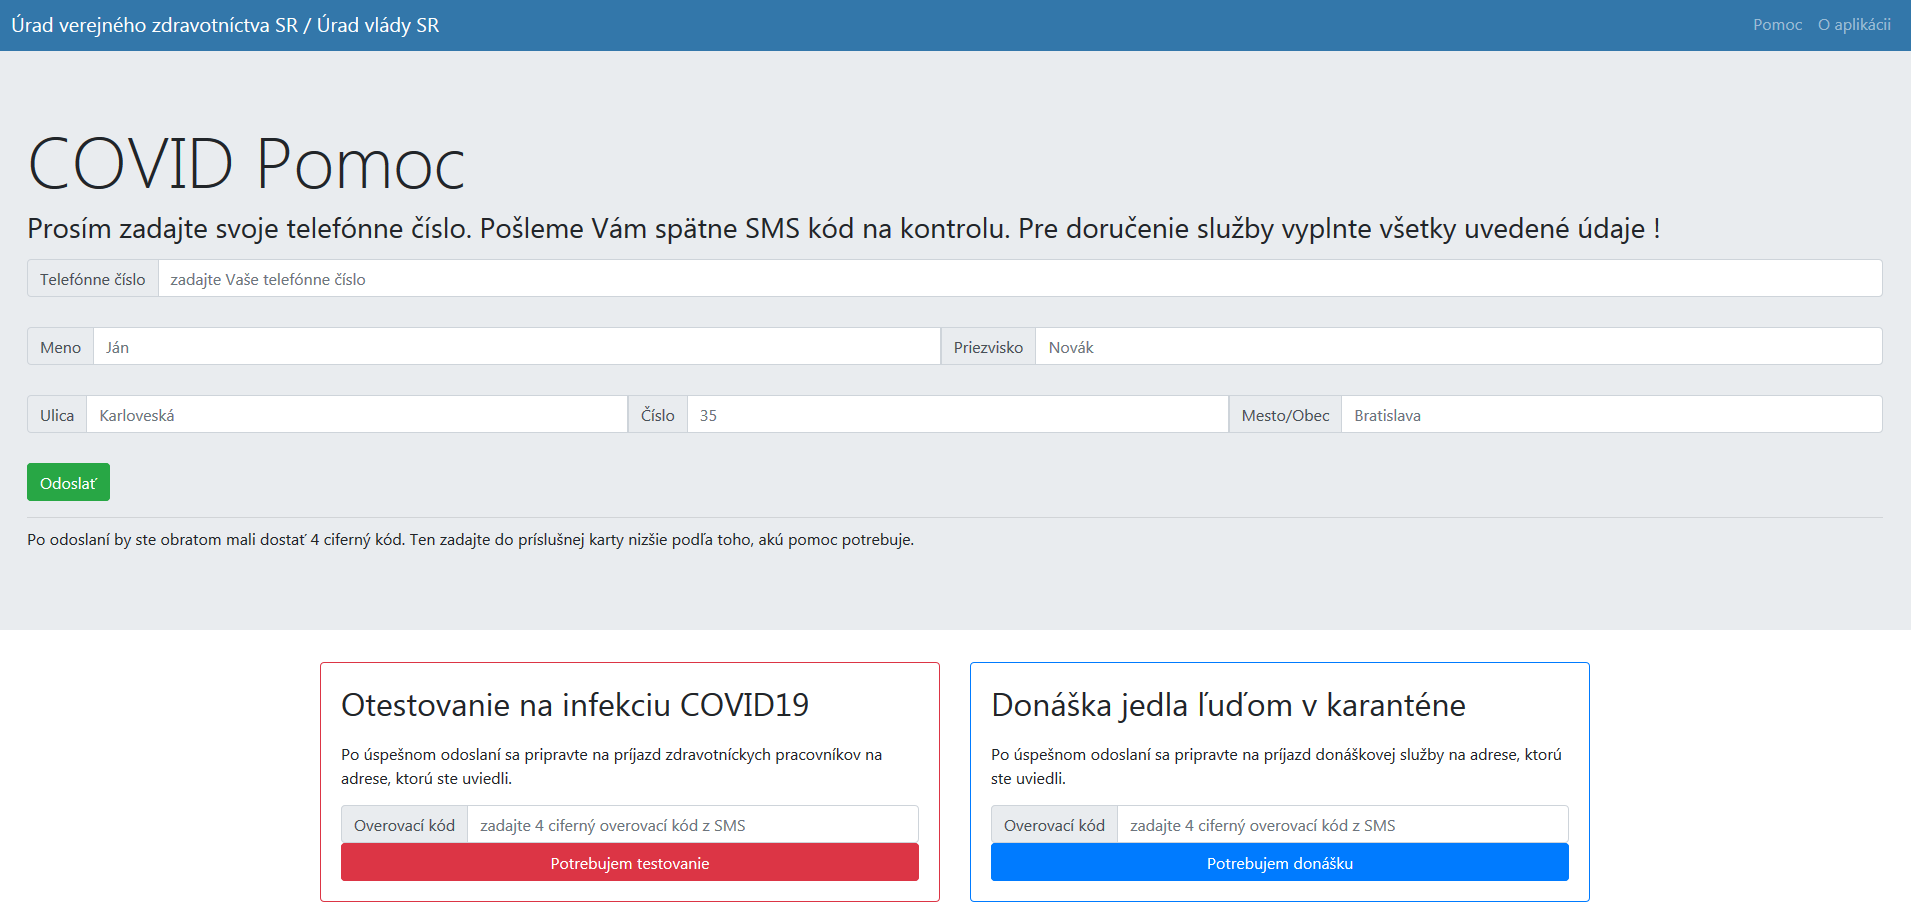
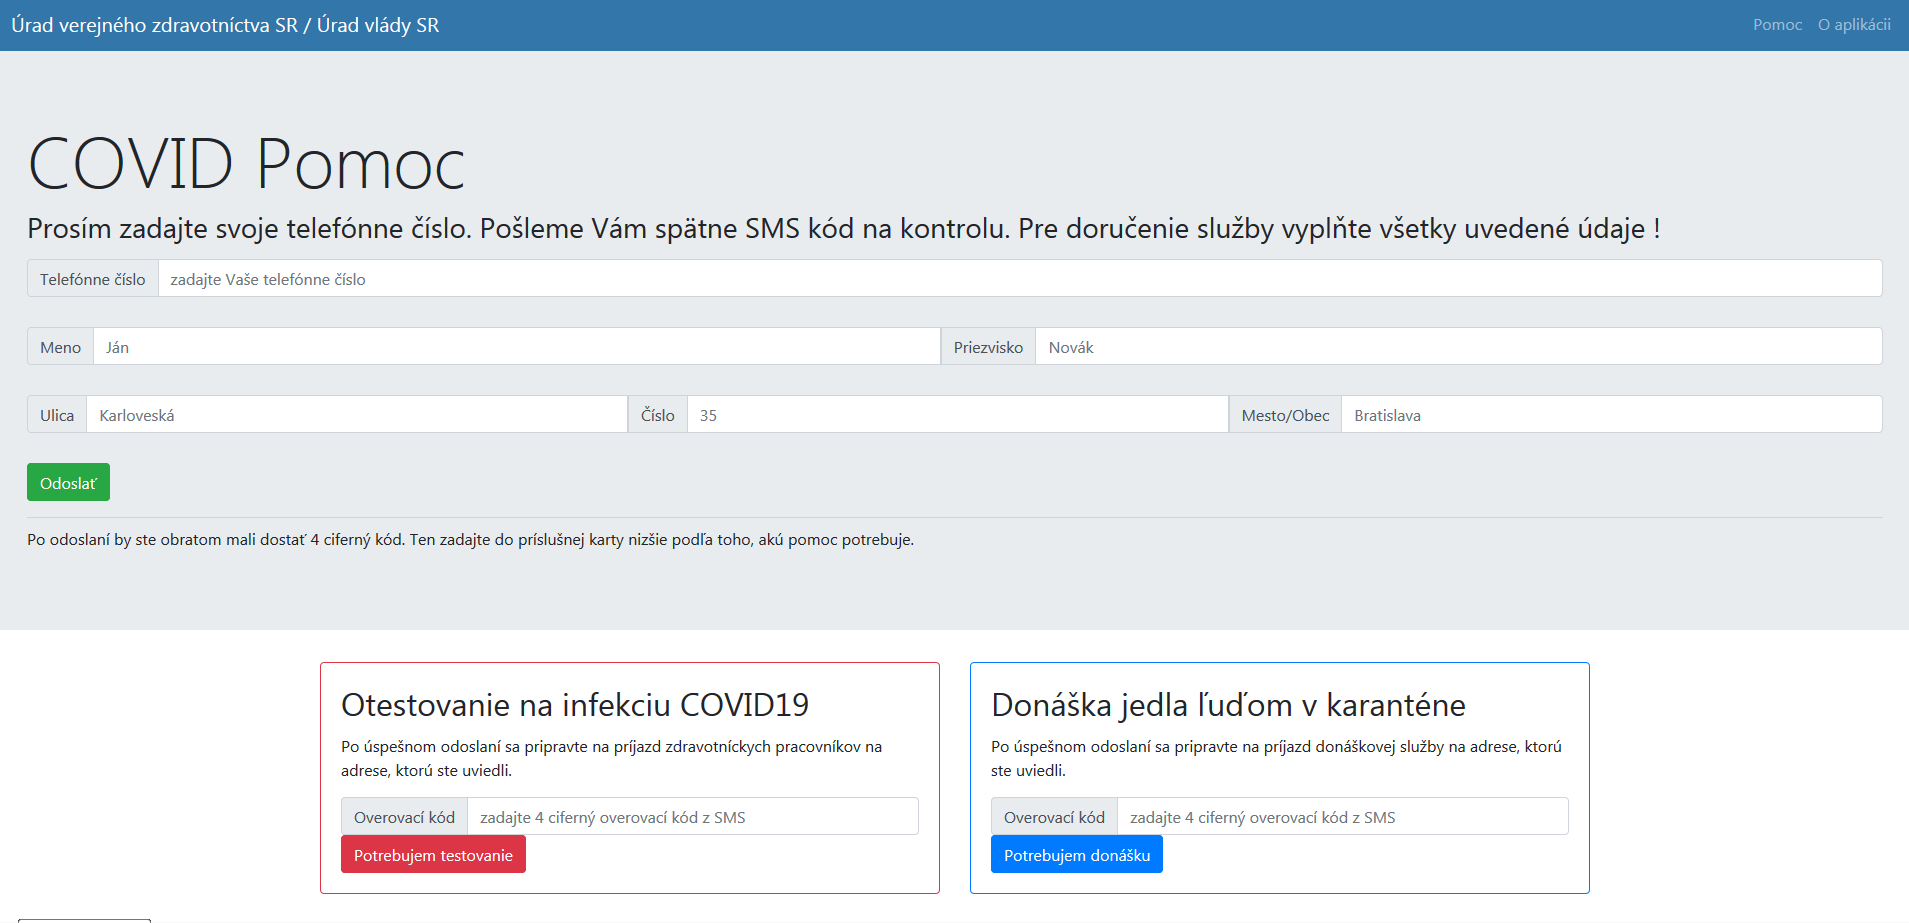
version 0.12

diff --git a/src/components/Result1.js b/src/components/Result1.js
@@ -1,0 +1,71 @@
+import React,{Component} from 'react';
+import {Container,Jumbotron,Progress} from 'reactstrap';
+import {Button, Card, CardImg, CardTitle, CardText, Row, Col,  InputGroup, InputGroupAddon, InputGroupText, Input} from 'reactstrap';
+
+
+export default class Result extends Component{
+
+    constructor(props) {
+        super(props);
+        this.state = {
+          contacts: [],
+          albums:[],
+          patients: []
+        };
+      }
+
+
+    componentDidMount() {
+        fetch('https://bnwcsnniopjzils-atpdbbmsk.adb.uk-london-1.oraclecloudapps.com/ords/books_admin/transactions/list/')
+        .then(res => res.json())
+        .then((data) => {
+          this.setState({ patients: data.items }) 
+        })
+        .catch(console.log)
+      }
+
+    render(){
+        return(
+            <div>
+                <Jumbotron fluid>
+                <Container fluid>
+                <h1 className="display-5">COVID Pomoc</h1>
+                <p className="lead">Stav vybavenia požiadavky</p>
+                <hr className="my-2" />
+                <p><Progress multi>
+                    <Progress animated bar value="10">V systéme</Progress>
+                    <Progress animated bar color="success" value="30" >Na ceste k Vám</Progress>
+                   </Progress>
+                </p>
+                <Card body outline color="danger">
+                    
+                    <CardTitle><h2>Vybrali ste si: Otestovanie na infekciu COVID19</h2></CardTitle>
+                    <CardText>Pripravte na príjazd zdravotníckych pracovníkov na uvedenej adrese. Zelená farba ukazovateľa znamená, že sú na ceste.</CardText>
+                        <InputGroup>
+                        <InputGroupAddon addonType="prepend">
+                        <InputGroupText>Na ceste k Vám</InputGroupText>
+                        </InputGroupAddon>
+                        <Input placeholder="je posádka vozidla BA789AG s doktorom Šrobárom" />
+                        </InputGroup>
+                        <br /><p/>
+                        <InputGroup>
+                        <InputGroupAddon addonType="prepend">
+                        <InputGroupText>Osoba</InputGroupText>
+                        </InputGroupAddon>
+                        <Input placeholder="" />
+                        </InputGroup>
+                        <br /><p/>
+                        <InputGroup>
+                        <InputGroupAddon addonType="prepend">
+                        <InputGroupText>Adresa</InputGroupText>
+                        </InputGroupAddon>
+                        <Input placeholder="" />
+                        </InputGroup>
+                        
+                </Card>
+                </Container>
+                </Jumbotron>
+            </div>
+        );
+    }
+}

diff --git a/src/components/Result2.js b/src/components/Result2.js
@@ -5,6 +5,25 @@ import {Button, Card, CardImg, CardTitle, CardText, Row, Col,  InputGroup, Input
 
 export default class Result extends Component{
 
+    constructor(props) {
+        super(props);
+        this.state = {
+          contacts: [],
+          albums:[],
+          patients: []
+        };
+      }
+
+
+    componentDidMount() {
+        fetch('https://bnwcsnniopjzils-atpdbbmsk.adb.uk-london-1.oraclecloudapps.com/ords/books_admin/transactions/list/')
+        .then(res => res.json())
+        .then((data) => {
+          this.setState({ patients: data.items }) 
+        })
+        .catch(console.log)
+      }
+
     render(){
         return(
             <div>
@@ -15,18 +34,18 @@ export default class Result extends Component{
                 <hr className="my-2" />
                 <p><Progress multi>
                     <Progress animated bar value="10">V systéme</Progress>
-                    <Progress animated bar color="success" value="30" >Na ceste k Vám</Progress>
+                    <Progress animated bar color="success" value="5" >Na ceste k Vám</Progress>
                    </Progress>
                 </p>
-                <Card body outline color="danger">
+                <Card body outline color="primary">
                     
-                    <CardTitle><h2>Vybrali ste si: Otestovanie na infekciu COVID19</h2></CardTitle>
-                    <CardText>Pripravte na príjazd zdravotníckych pracovníkov na uvedenej adrese. Zelená farba ukazovateľa znamená, že sú na ceste.</CardText>
+                    <CardTitle><h2>Vybrali ste si: Donášku potravín</h2></CardTitle>
+                    <CardText>Pripravte na príjazd kuriérskej služby. Zelená farba ukazovateľa znamená, že sú na ceste.</CardText>
                         <InputGroup>
                         <InputGroupAddon addonType="prepend">
                         <InputGroupText>Na ceste k Vám</InputGroupText>
                         </InputGroupAddon>
-                        <Input placeholder="je posádka vozidla BA789AG s doktorom Šrobárom" />
+                        <Input placeholder="je kuriér spoločnosti Bold František, ŠPZ BA234AC" />
                         </InputGroup>
                         <br /><p/>
                         <InputGroup>

diff --git a/src/components/MenuCard.js b/src/components/MenuCard.js
@@ -13,7 +13,9 @@ class MenuCard extends Component{
     
     this.state = {
         SMSNumber1: '',
-        SMSNumber2: ''
+        SMSNumber2: '',
+        SMSNumber1valid: false,
+        SMSNumber2valid: false
     }
     }
     onChangeSMS1(e) {
@@ -28,19 +30,45 @@ class MenuCard extends Component{
       });
       
     }
+
+    handleValidation1(){
+      let sms = this.state.SMSNumber1;
+
+      if (sms.length < 4) {
+        this.SMSNumber1valid = false;
+      }
+      else {this.SMSNumber1valid = true}
+     return this.SMSNumber1valid;
+    }
+
+    handleValidation2(){
+      let sms = this.state.SMSNumber2;
+
+      if (sms.length < 4) {
+        this.SMSNumber2valid = false;
+      }
+      else {this.SMSNumber2valid = true}
+     return this.SMSNumber2valid;
+    }
+
     onSubmit1(e) {
       e.preventDefault();
       const obj = {
           SMSNumber1: this.state.SMSNumber1
       };
+
+      if(this.handleValidation1()){
+        axios.post('http://localhost:4000/verify/addsms1',obj)
+        .then(res => console.log(res.data));
+           
+        this.setState({
+        SMSNumber1: '',
+        })  
+        this.props.history.push('/result1');
+        } else {
+          alert("Zadajte SMS kód !")
+      }
       
-      axios.post('http://localhost:4000/verify/addsms1',obj)
-          .then(res => console.log(res.data));
-             
-      this.setState({
-          SMSNumber1: '',
-      })  
-      this.props.history.push('/result');
       }
 
       onSubmit2(e) {
@@ -49,13 +77,17 @@ class MenuCard extends Component{
             SMSNumber2: this.state.SMSNumber2
         };
         
-        axios.post('http://localhost:4000/verify/addsms2',obj)
-            .then(res => console.log(res.data));
-               
-        this.setState({
-            SMSNumber2: '',
-        })  
-        this.props.history.push('/result');
+        if(this.handleValidation2()){
+          axios.post('http://localhost:4000/verify/addsms2',obj)
+          .then(res => console.log(res.data));
+             
+          this.setState({
+          SMSNumber2: '',
+          })  
+          this.props.history.push('/result2');
+          } else {
+            alert("Zadajte SMS kód !")
+        }
         }
 
     render(){

diff --git a/src/App.js b/src/App.js
@@ -3,7 +3,8 @@ import { BrowserRouter as Router, Switch, Route, Link } from 'react-router-dom';
 import Logo from './logo.svg';
 import './App.css';
 import About from './components/About';
-import Result from './components/Result';
+import Result1 from './components/Result1';
+import Result2 from './components/Result2';
 import Menu from './components/Menu';
 import MenuCard from './components/MenuCard';
 import Header from './components/Header';
@@ -24,7 +25,8 @@ class App extends Component {
 							</div>
 							} />
 						<Route exact path='/about' component={About} />
-						<Route exact path='/result' component={Result} />
+						<Route exact path='/result1' component={Result1} />
+						<Route exact path='/result2' component={Result2} />
 					</Switch>
 				</div>
 			</Router>

diff --git a/README.md b/README.md
@@ -3,6 +3,9 @@ This project was bootstrapped with [Create React App](https://github.com/faceboo
 This a fronted web app helping to people handle Covid19 infections with request for help. (in Slovak language)
 ![Screenshot of frontend home](public/screenshot1.png)
 
+This a status web app helping to people handle Covid19 infections with request for help. (in Slovak language)
+![Screenshot of frontend home](public/screenshot2.png)
+
 ## Available Scripts
 
 In the project directory, you can run:
